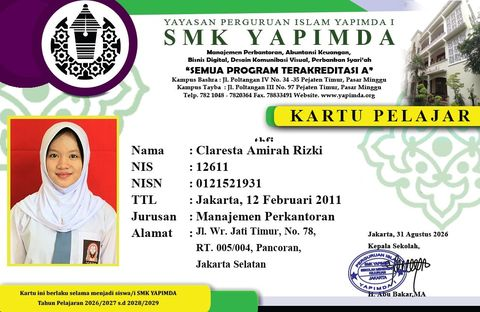
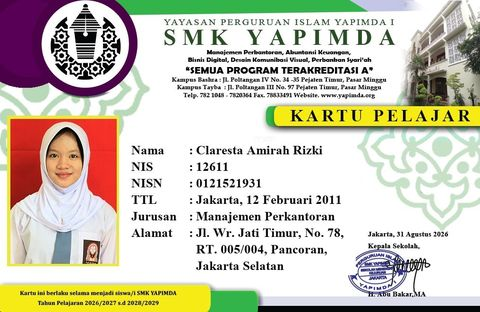
Alamat 27pt sama rata + bersihkan speck di atas Nama (167px) di 4 kartu; format baku diperbarui

diff --git a/FORMAT_KARTU.md b/FORMAT_KARTU.md
@@ -17,8 +17,11 @@ Hasil akhir yang disetujui user = seperti kartu acuan `cards/MP2/ahmad-luthfi.jp
 - `x_label = 278`, `x_colon = 400`, `x_value = 415`
 - `y_start = 302`, `line_h = 35`
 - Field utama (Nama, NIS, NISN, TTL, Jurusan + label "Alamat"): **27pt**.
-- Lanjutan alamat: **22pt**, dibungkus max 3 baris dengan syarat
-  `x_value + lebar_teks <= 747` (cek via `font.getbbox`).
+- Lanjutan alamat: **27pt sama rata** (revisi: 22pt terlihat kecil & tidak sejajar),
+  dibungkus max 3 baris dengan syarat `x_value + lebar_teks <= 747`
+  (cek via `font.getbbox`; semua alamat sejauh ini muat: max 323px).
+- Zona `x535-580, y291-299` (di atas Nama) harus bersih putih — di master ada
+  sisa speck gelap, wajib diputihkan per kartu.
 - Contoh split alamat:
   - `Jl. Pejaten Timur, No. 24A,` / `RT. 010/007, Ps. Minggu,` / `Jakarta Selatan`
   - `Jl. Guru Muhyin, No. 99,` / `RT. 004/002, Jagakarsa,` / `Jakarta Selatan`
